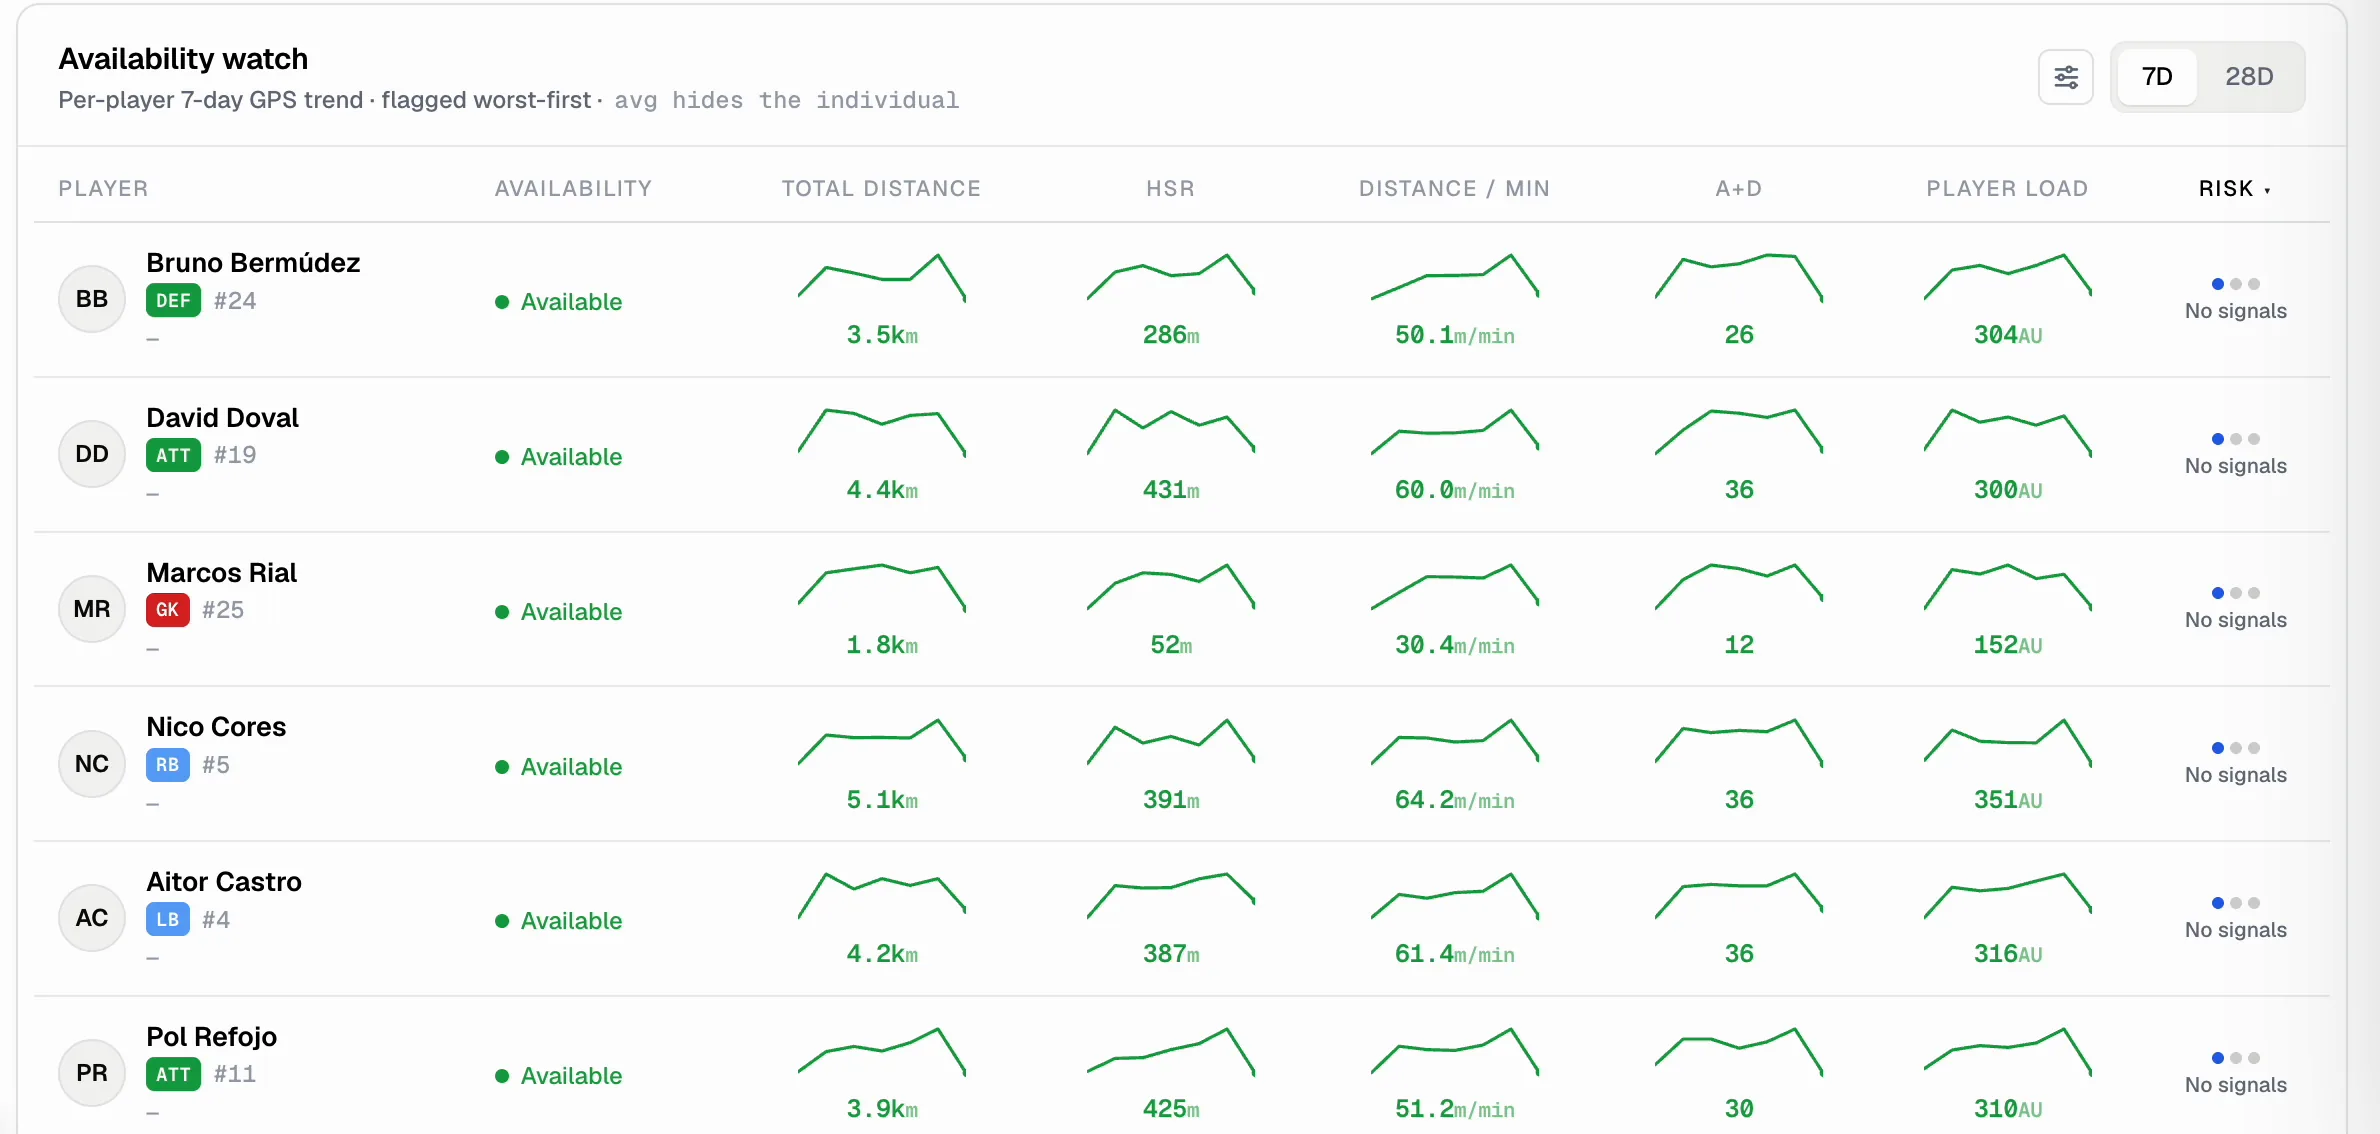
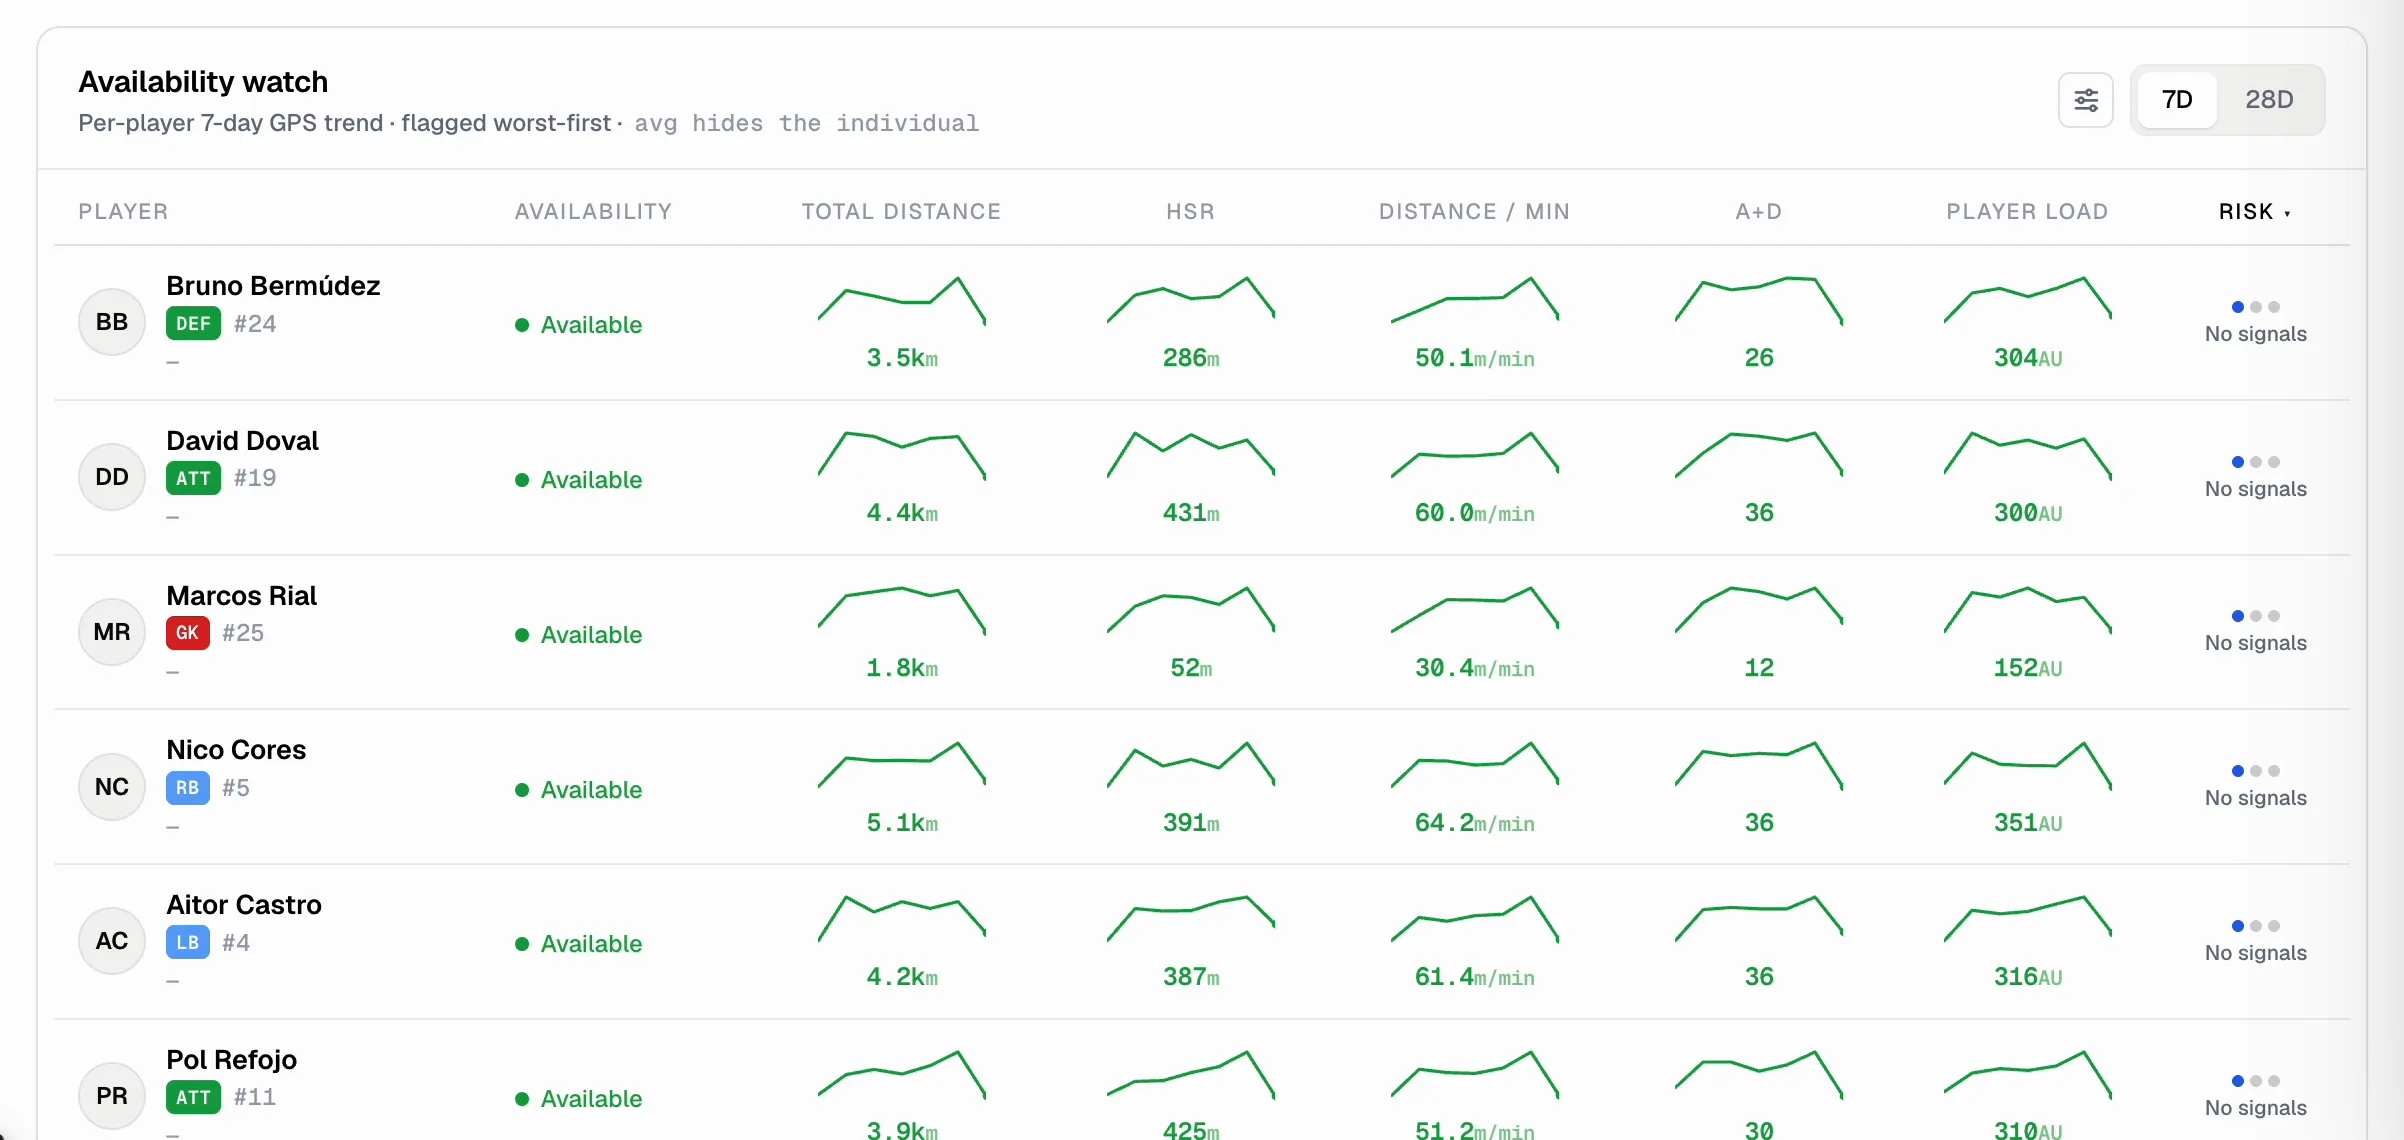
fix(home): las cuatro viñetas del loop estaban recortadas por dentro
Se cortaban justo donde hay que leer: la de GPS se comía el título
"Total Distance" y el eje de la izquierda, y por la derecha entraba la
barra de scroll de la página; plan y monitor cortaban la tarjeta por
abajo, sin su borde inferior. Quedaban descuadradas respecto al contorno
del contenedor.

Reencuadradas las cuatro desde el mismo rango horizontal — del borde de
la sidebar hasta justo antes de la barra de scroll — y con el mismo
margen arriba y abajo, así que ahora cada tarjeta se ve entera y las
cuatro pestañas se alinean entre sí. La de decide se corta a propósito a
media fila: es una tabla que sigue, y así se lee como tal, pero sin
llevarse el tooltip de URL que asomaba en la esquina.

diff --git a/Home.html b/Home.html
@@ -232,25 +232,25 @@
 
     <!-- PLAN -->
     <div class="how-vis" data-vis="plan">
-      <img src="assets/marketing/loop/plan.webp" width="2380" height="1206"
+      <img src="assets/marketing/loop/plan.webp" width="2404" height="1264"
            loading="lazy" decoding="async" alt="Weekly microcycle in the ClavaMetrics calendar — target match, session count, total duration and every day of the week with its sessions">
     </div>
 
     <!-- MONITOR -->
     <div class="how-vis" data-vis="monitor" hidden>
-      <img src="assets/marketing/loop/monitor.webp" width="2380" height="1060"
+      <img src="assets/marketing/loop/monitor.webp" width="2404" height="1087"
            loading="lazy" decoding="async" alt="Acute:chronic workload ratio in ClavaMetrics — squad EWMA curve over the load zones, players in the risk zone and the squad distribution">
     </div>
 
     <!-- ANALYZE -->
     <div class="how-vis" data-vis="analyze" hidden>
-      <img src="assets/marketing/loop/gps.webp" width="2366" height="1426"
+      <img src="assets/marketing/loop/gps.webp" width="2404" height="1315"
            loading="lazy" decoding="async" alt="GPS analysis in ClavaMetrics — total distance per matchday, week-on-week volume against the previous microcycle and high-speed running spread by player">
     </div>
 
     <!-- DECIDE -->
     <div class="how-vis" data-vis="decide" hidden>
-      <img src="assets/marketing/loop/decide.webp" width="2380" height="1134"
+      <img src="assets/marketing/loop/decide.webp" width="2404" height="1140"
            loading="lazy" decoding="async" alt="Availability watch in ClavaMetrics — seven-day GPS trend per player with availability status and risk signals">
     </div>
   </div>
